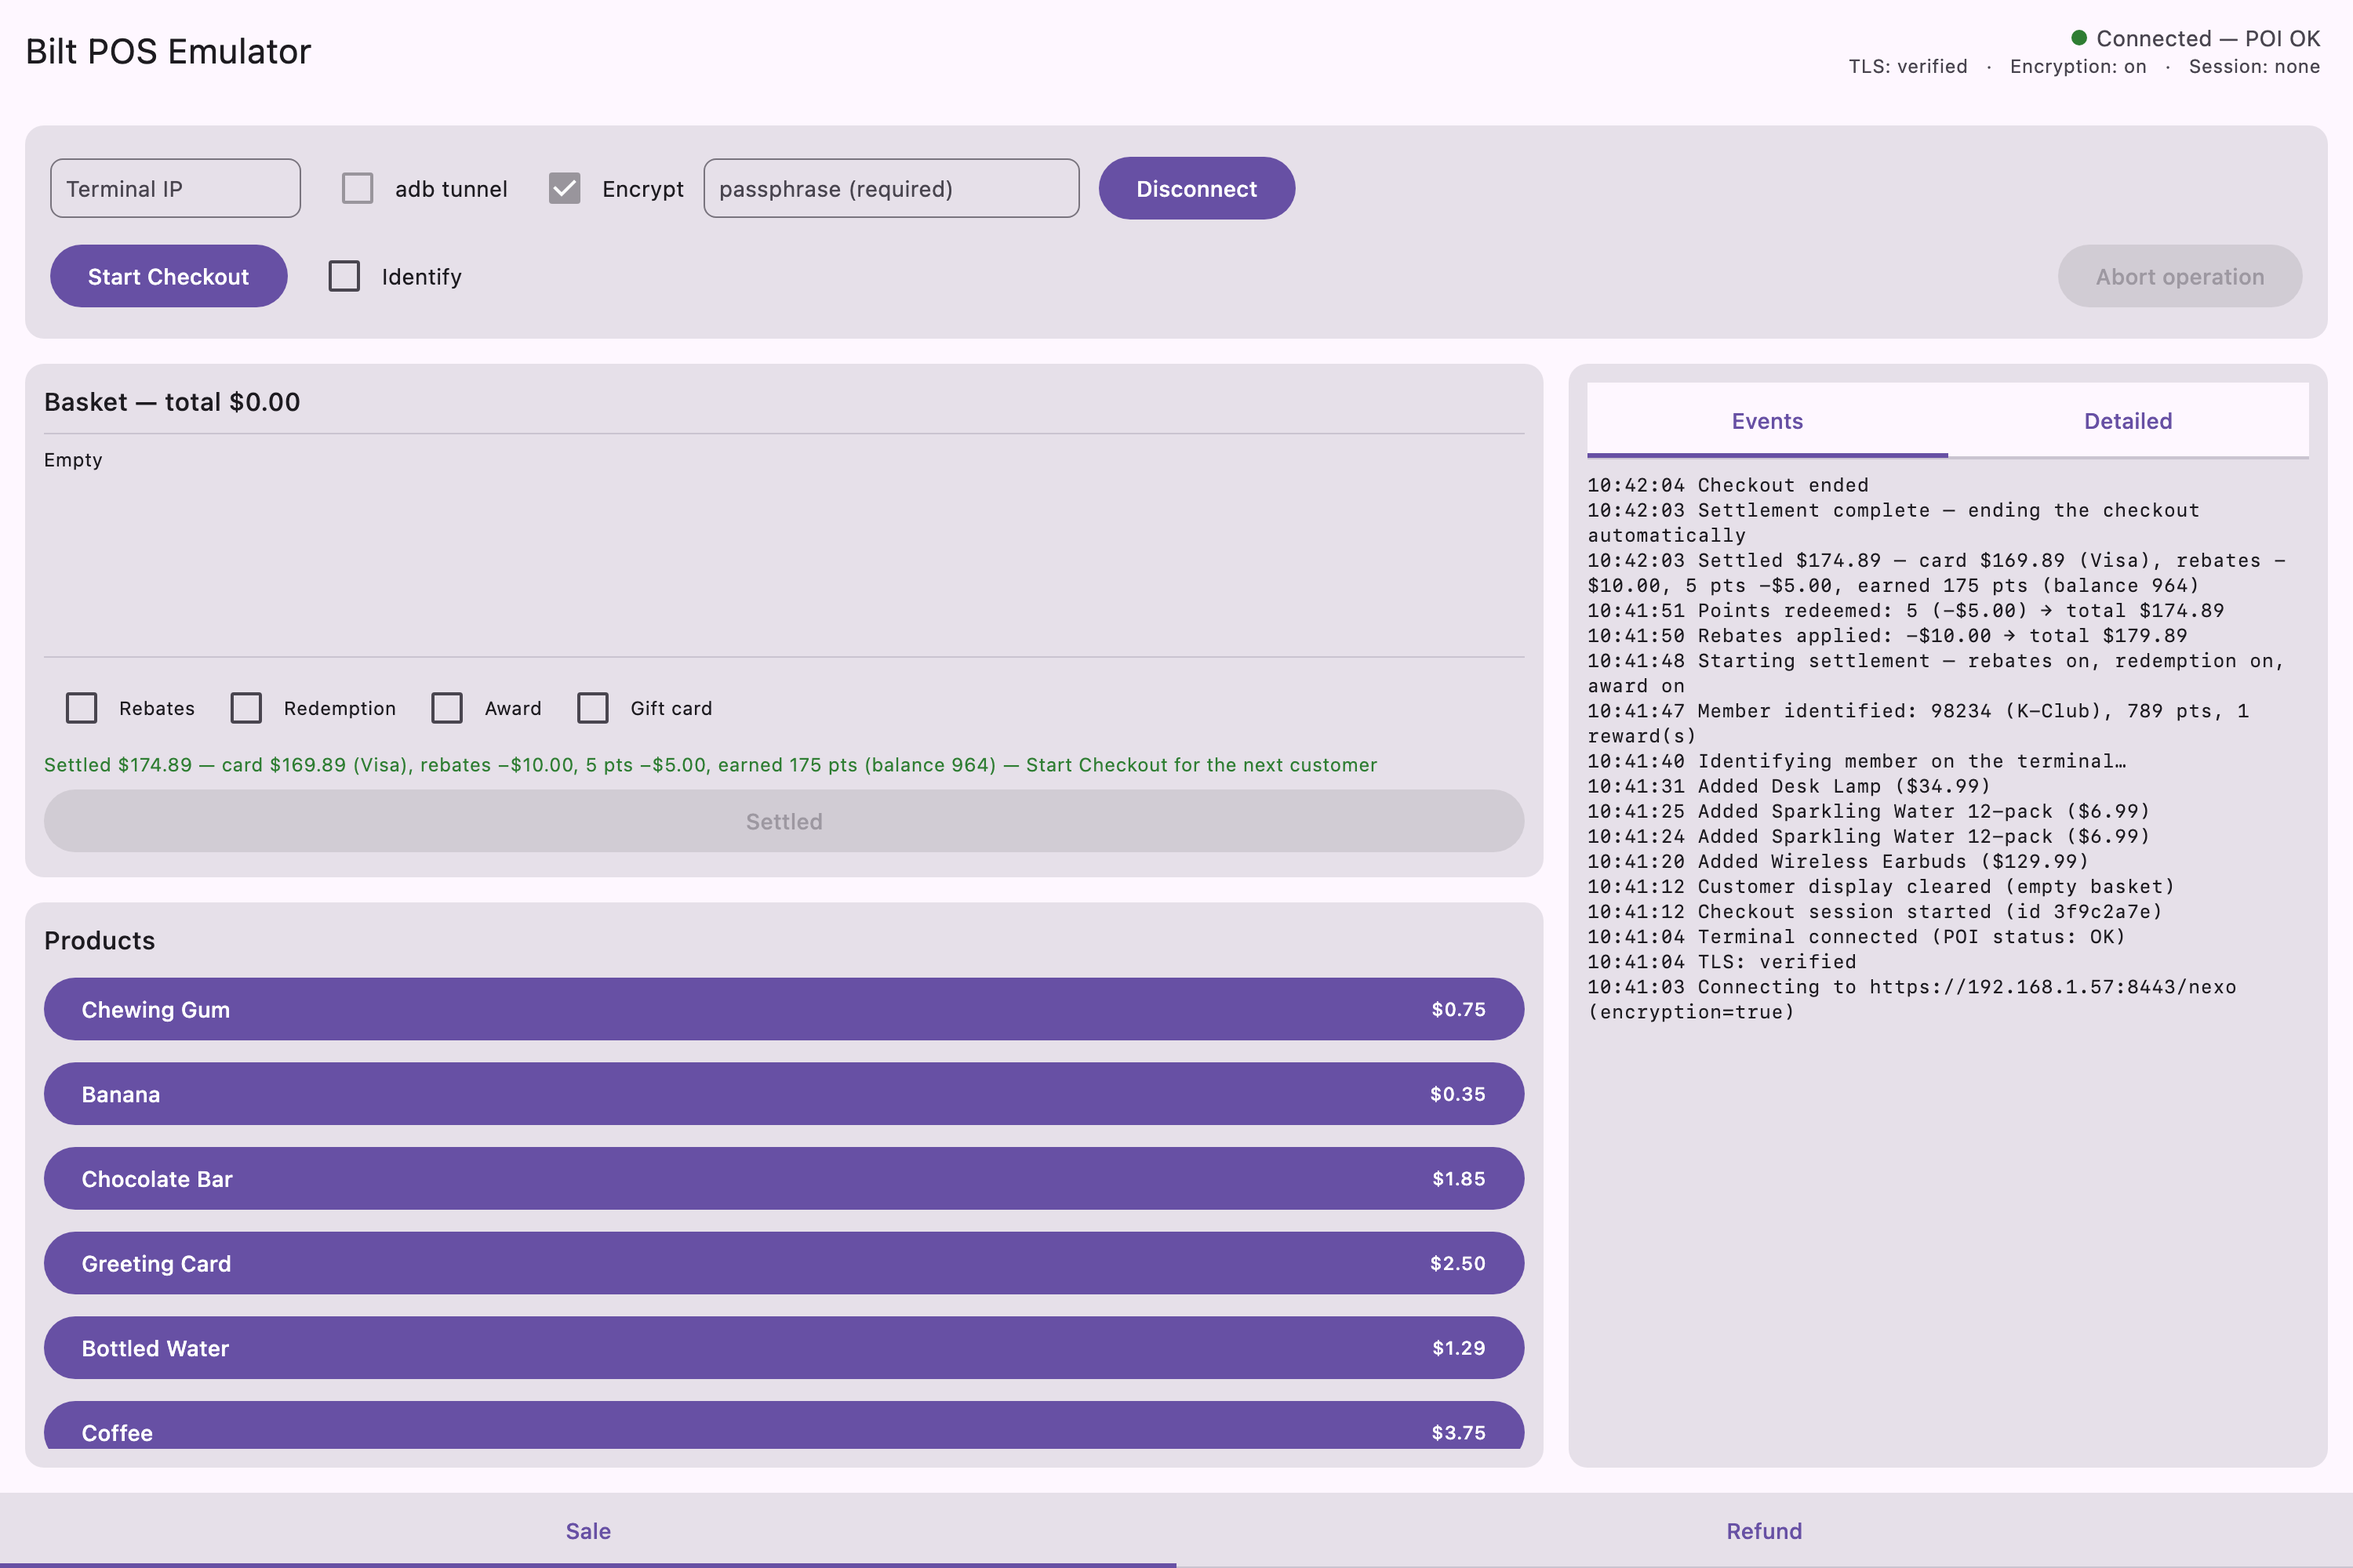
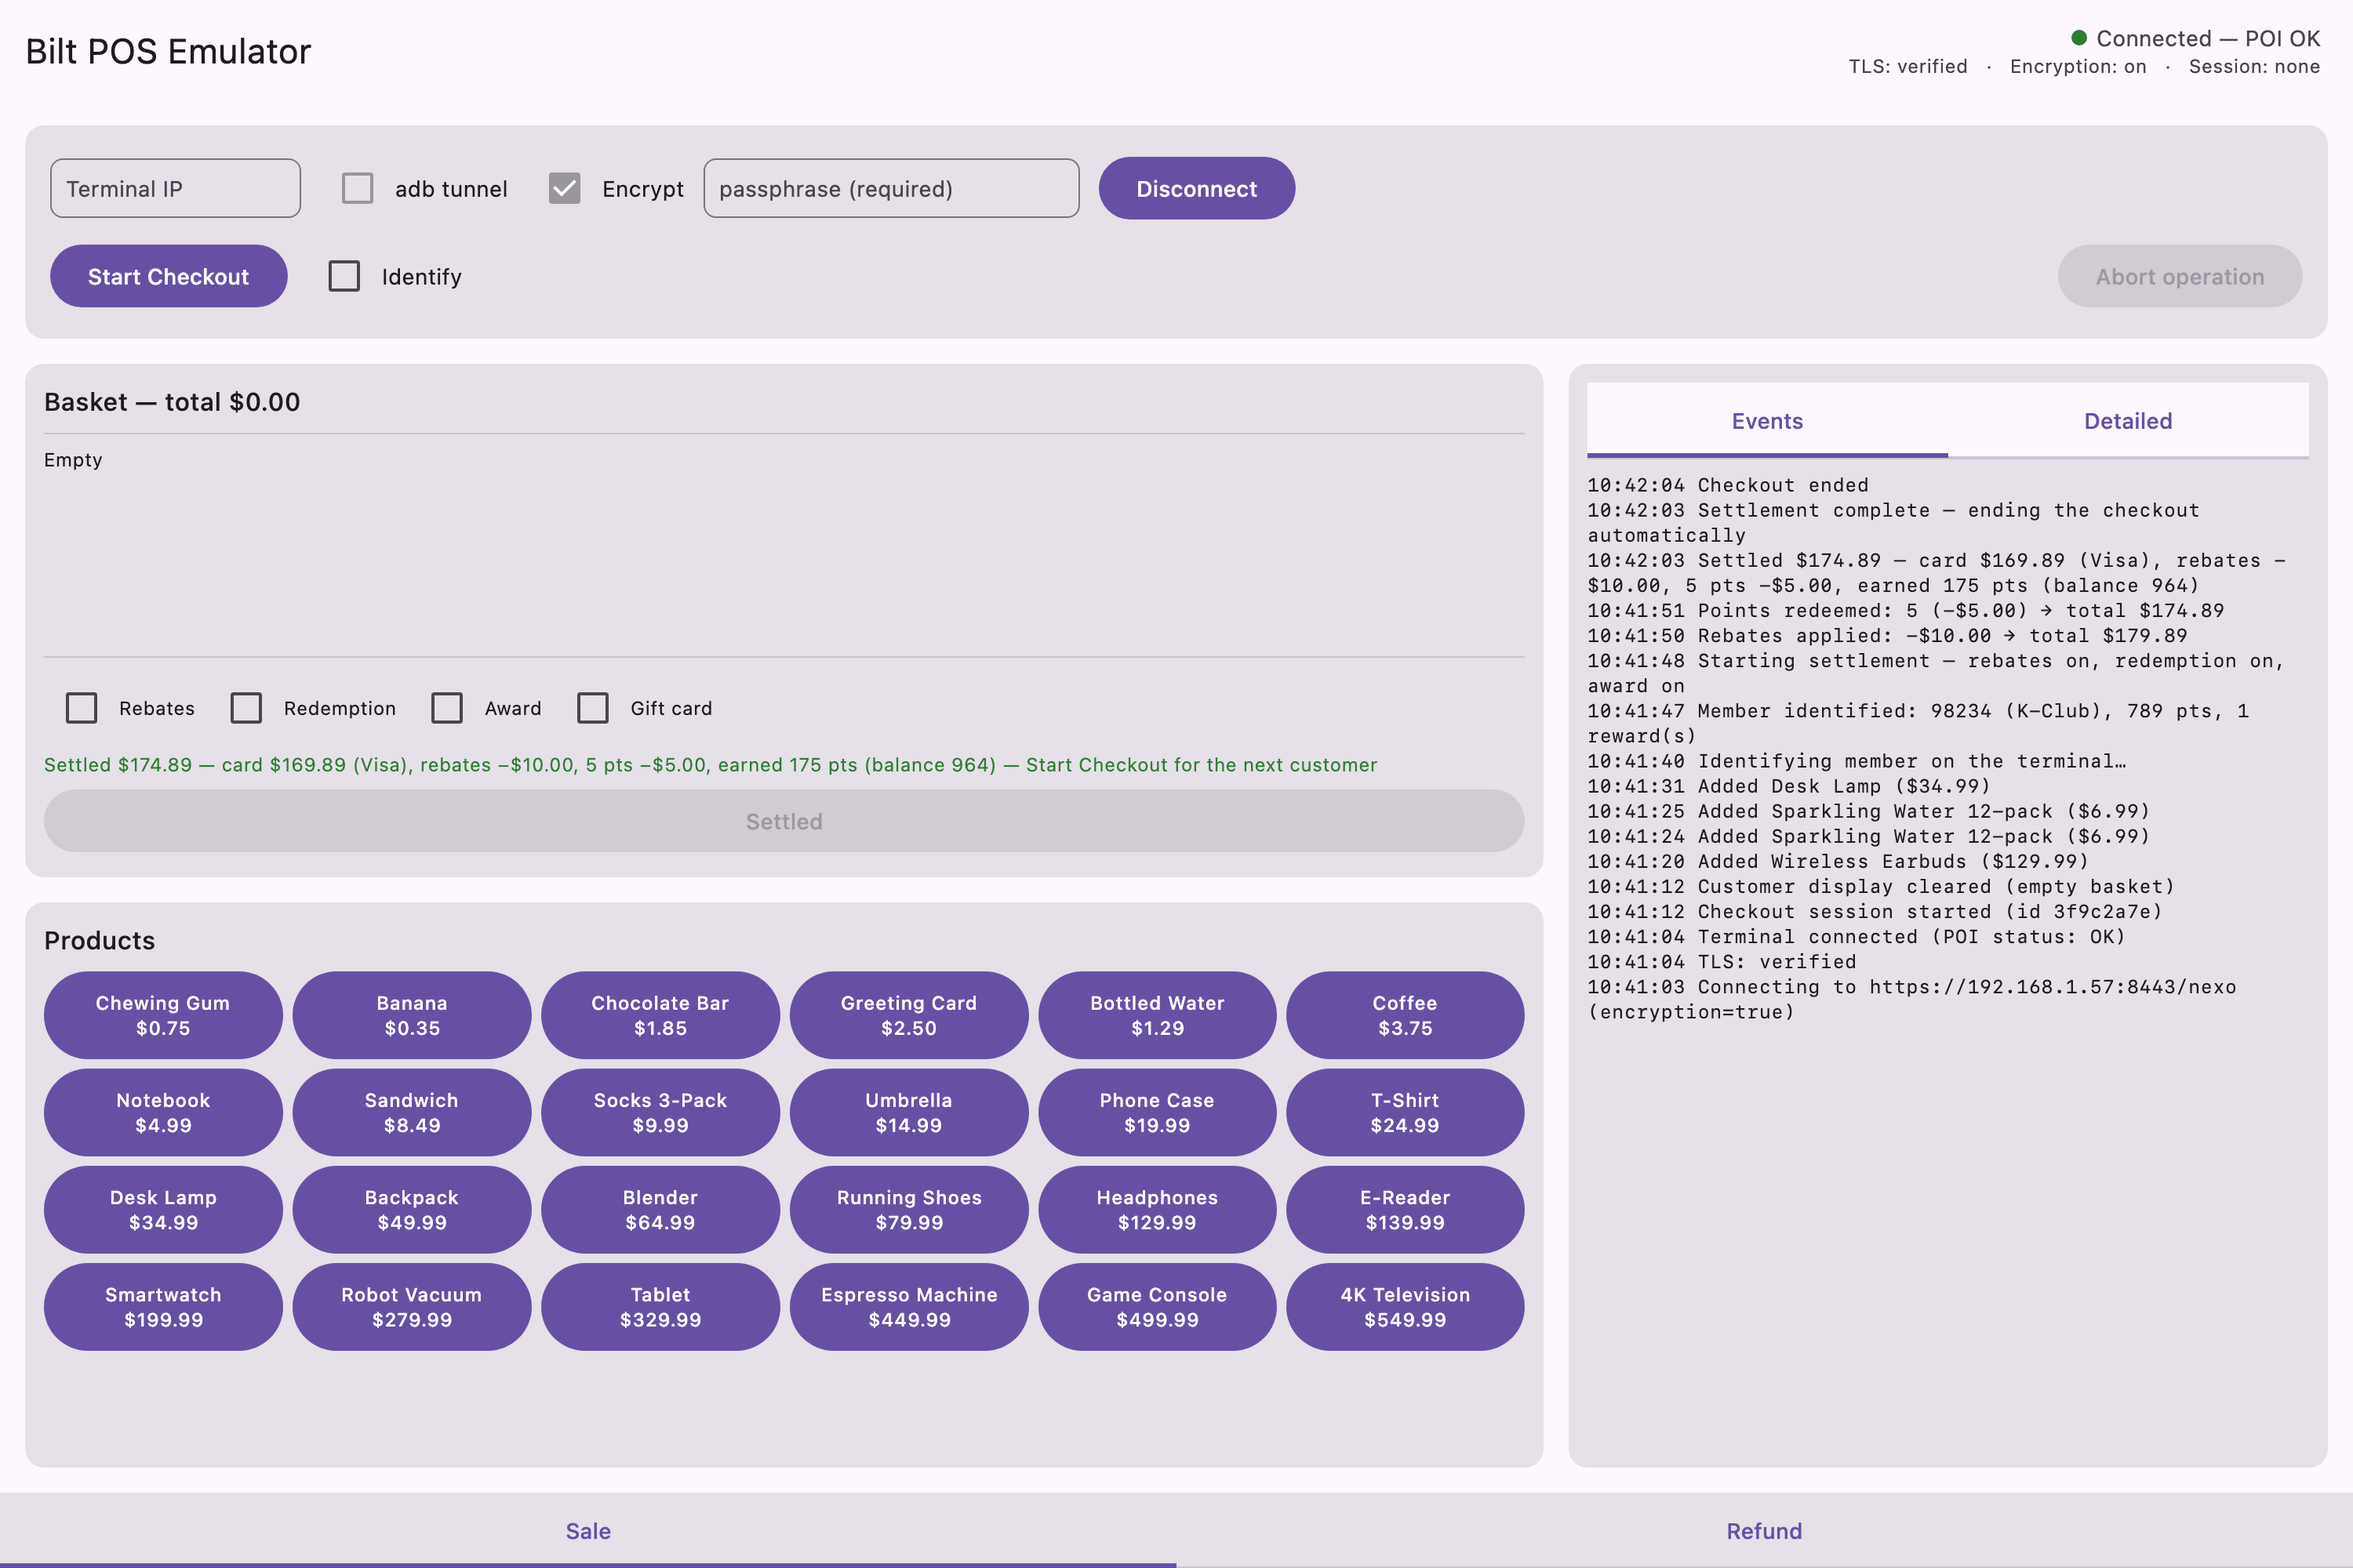
Product grid: compact bubbles in adaptive columns
Full-width product rows wasted the pane and needed scrolling for 24
products. The list is now a LazyVerticalGrid of compact bubbles (name
over price, fixed height so rows stay even, adaptive 150dp columns) —
the whole catalog fits on screen at the default window size.

Changed region(s): [[0.0, 0.62, 0.651, 0.93]]

diff --git a/emulator/shared/src/commonMain/kotlin/com/bilt/pos/emulator/EmulatorApp.kt b/emulator/shared/src/commonMain/kotlin/com/bilt/pos/emulator/EmulatorApp.kt
@@ -19,7 +19,11 @@ import androidx.compose.foundation.layout.heightIn
 import androidx.compose.foundation.layout.padding
 import androidx.compose.foundation.layout.size
 import androidx.compose.foundation.layout.width
+import androidx.compose.foundation.layout.PaddingValues
 import androidx.compose.foundation.lazy.LazyColumn
+import androidx.compose.foundation.lazy.grid.GridCells
+import androidx.compose.foundation.lazy.grid.LazyVerticalGrid
+import androidx.compose.foundation.lazy.grid.items
 import androidx.compose.foundation.lazy.items
 import androidx.compose.foundation.rememberScrollState
 import androidx.compose.foundation.shape.CircleShape
@@ -58,6 +62,7 @@ import androidx.compose.ui.graphics.SolidColor
 import androidx.compose.ui.platform.LocalDensity
 import androidx.compose.ui.text.font.FontFamily
 import androidx.compose.ui.text.input.PasswordVisualTransformation
+import androidx.compose.ui.text.style.TextOverflow
 import androidx.compose.ui.text.input.VisualTransformation
 import androidx.compose.ui.unit.dp
 import com.bilt.pos.emulator.catalog.Product
@@ -801,25 +806,28 @@ private fun ProductGrid(
     Card(modifier = modifier.fillMaxWidth()) {
         Column(modifier = Modifier.padding(12.dp)) {
             Text("Products", style = MaterialTheme.typography.titleMedium)
-            // weight(1f) so the list measures against the space under the
-            // header instead of the card's full height (clips the last rows)
-            LazyColumn(
+            // weight(1f) so the grid measures against the space under the
+            // header instead of the card's full height (clips the last rows).
+            // Adaptive columns: as many compact bubbles per row as fit.
+            LazyVerticalGrid(
+                columns = GridCells.Adaptive(minSize = 150.dp),
                 verticalArrangement = Arrangement.spacedBy(6.dp),
+                horizontalArrangement = Arrangement.spacedBy(6.dp),
                 modifier = Modifier.padding(top = 8.dp).weight(1f),
             ) {
                 items(products, key = { it.sku }) { product ->
                     Button(
                         onClick = { controller.addProduct(product) },
-                        modifier = Modifier.fillMaxWidth(),
+                        // fixed height so rows stay even when names differ
+                        modifier = Modifier.fillMaxWidth().height(56.dp),
+                        contentPadding = PaddingValues(horizontal = 10.dp, vertical = 4.dp),
                     ) {
-                        Row(
-                            modifier = Modifier.fillMaxWidth(),
-                            verticalAlignment = Alignment.CenterVertically,
-                        ) {
+                        Column(horizontalAlignment = Alignment.CenterHorizontally) {
                             Text(
                                 product.name,
-                                style = MaterialTheme.typography.labelLarge,
-                                modifier = Modifier.weight(1f),
+                                style = MaterialTheme.typography.labelMedium,
+                                maxLines = 1,
+                                overflow = TextOverflow.Ellipsis,
                             )
                             Text(product.priceLabel, style = MaterialTheme.typography.labelMedium)
                         }
